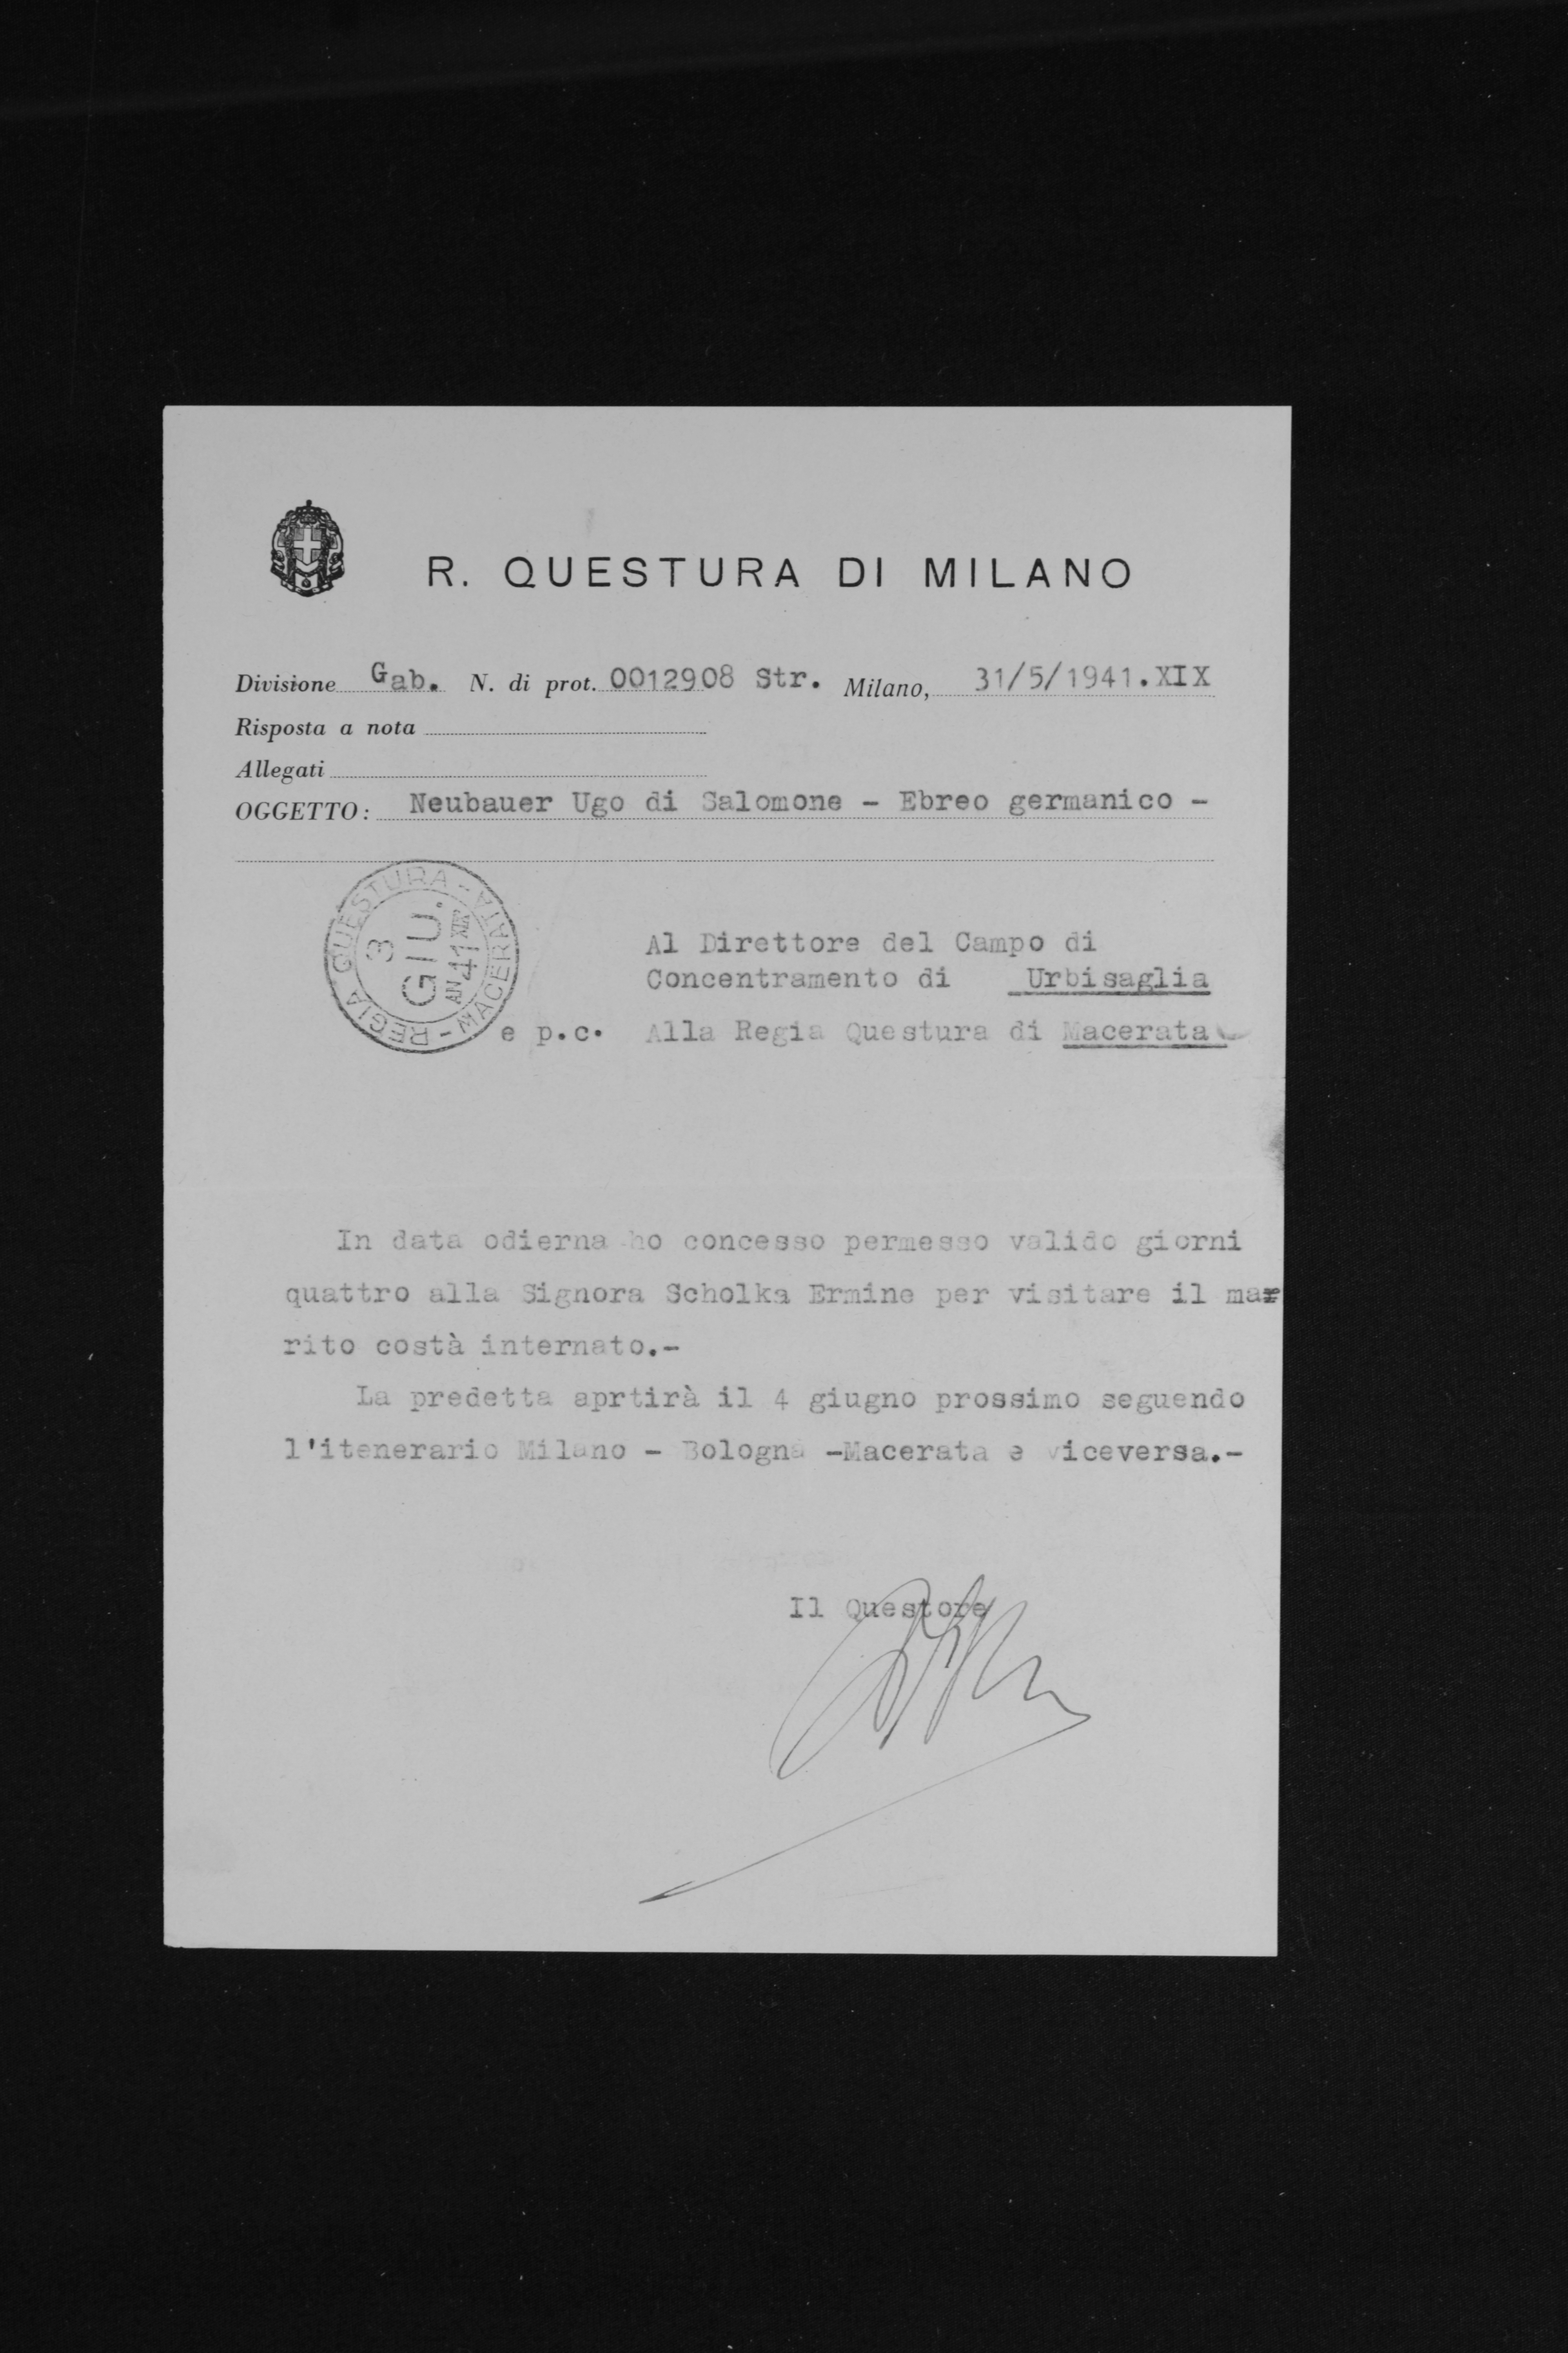
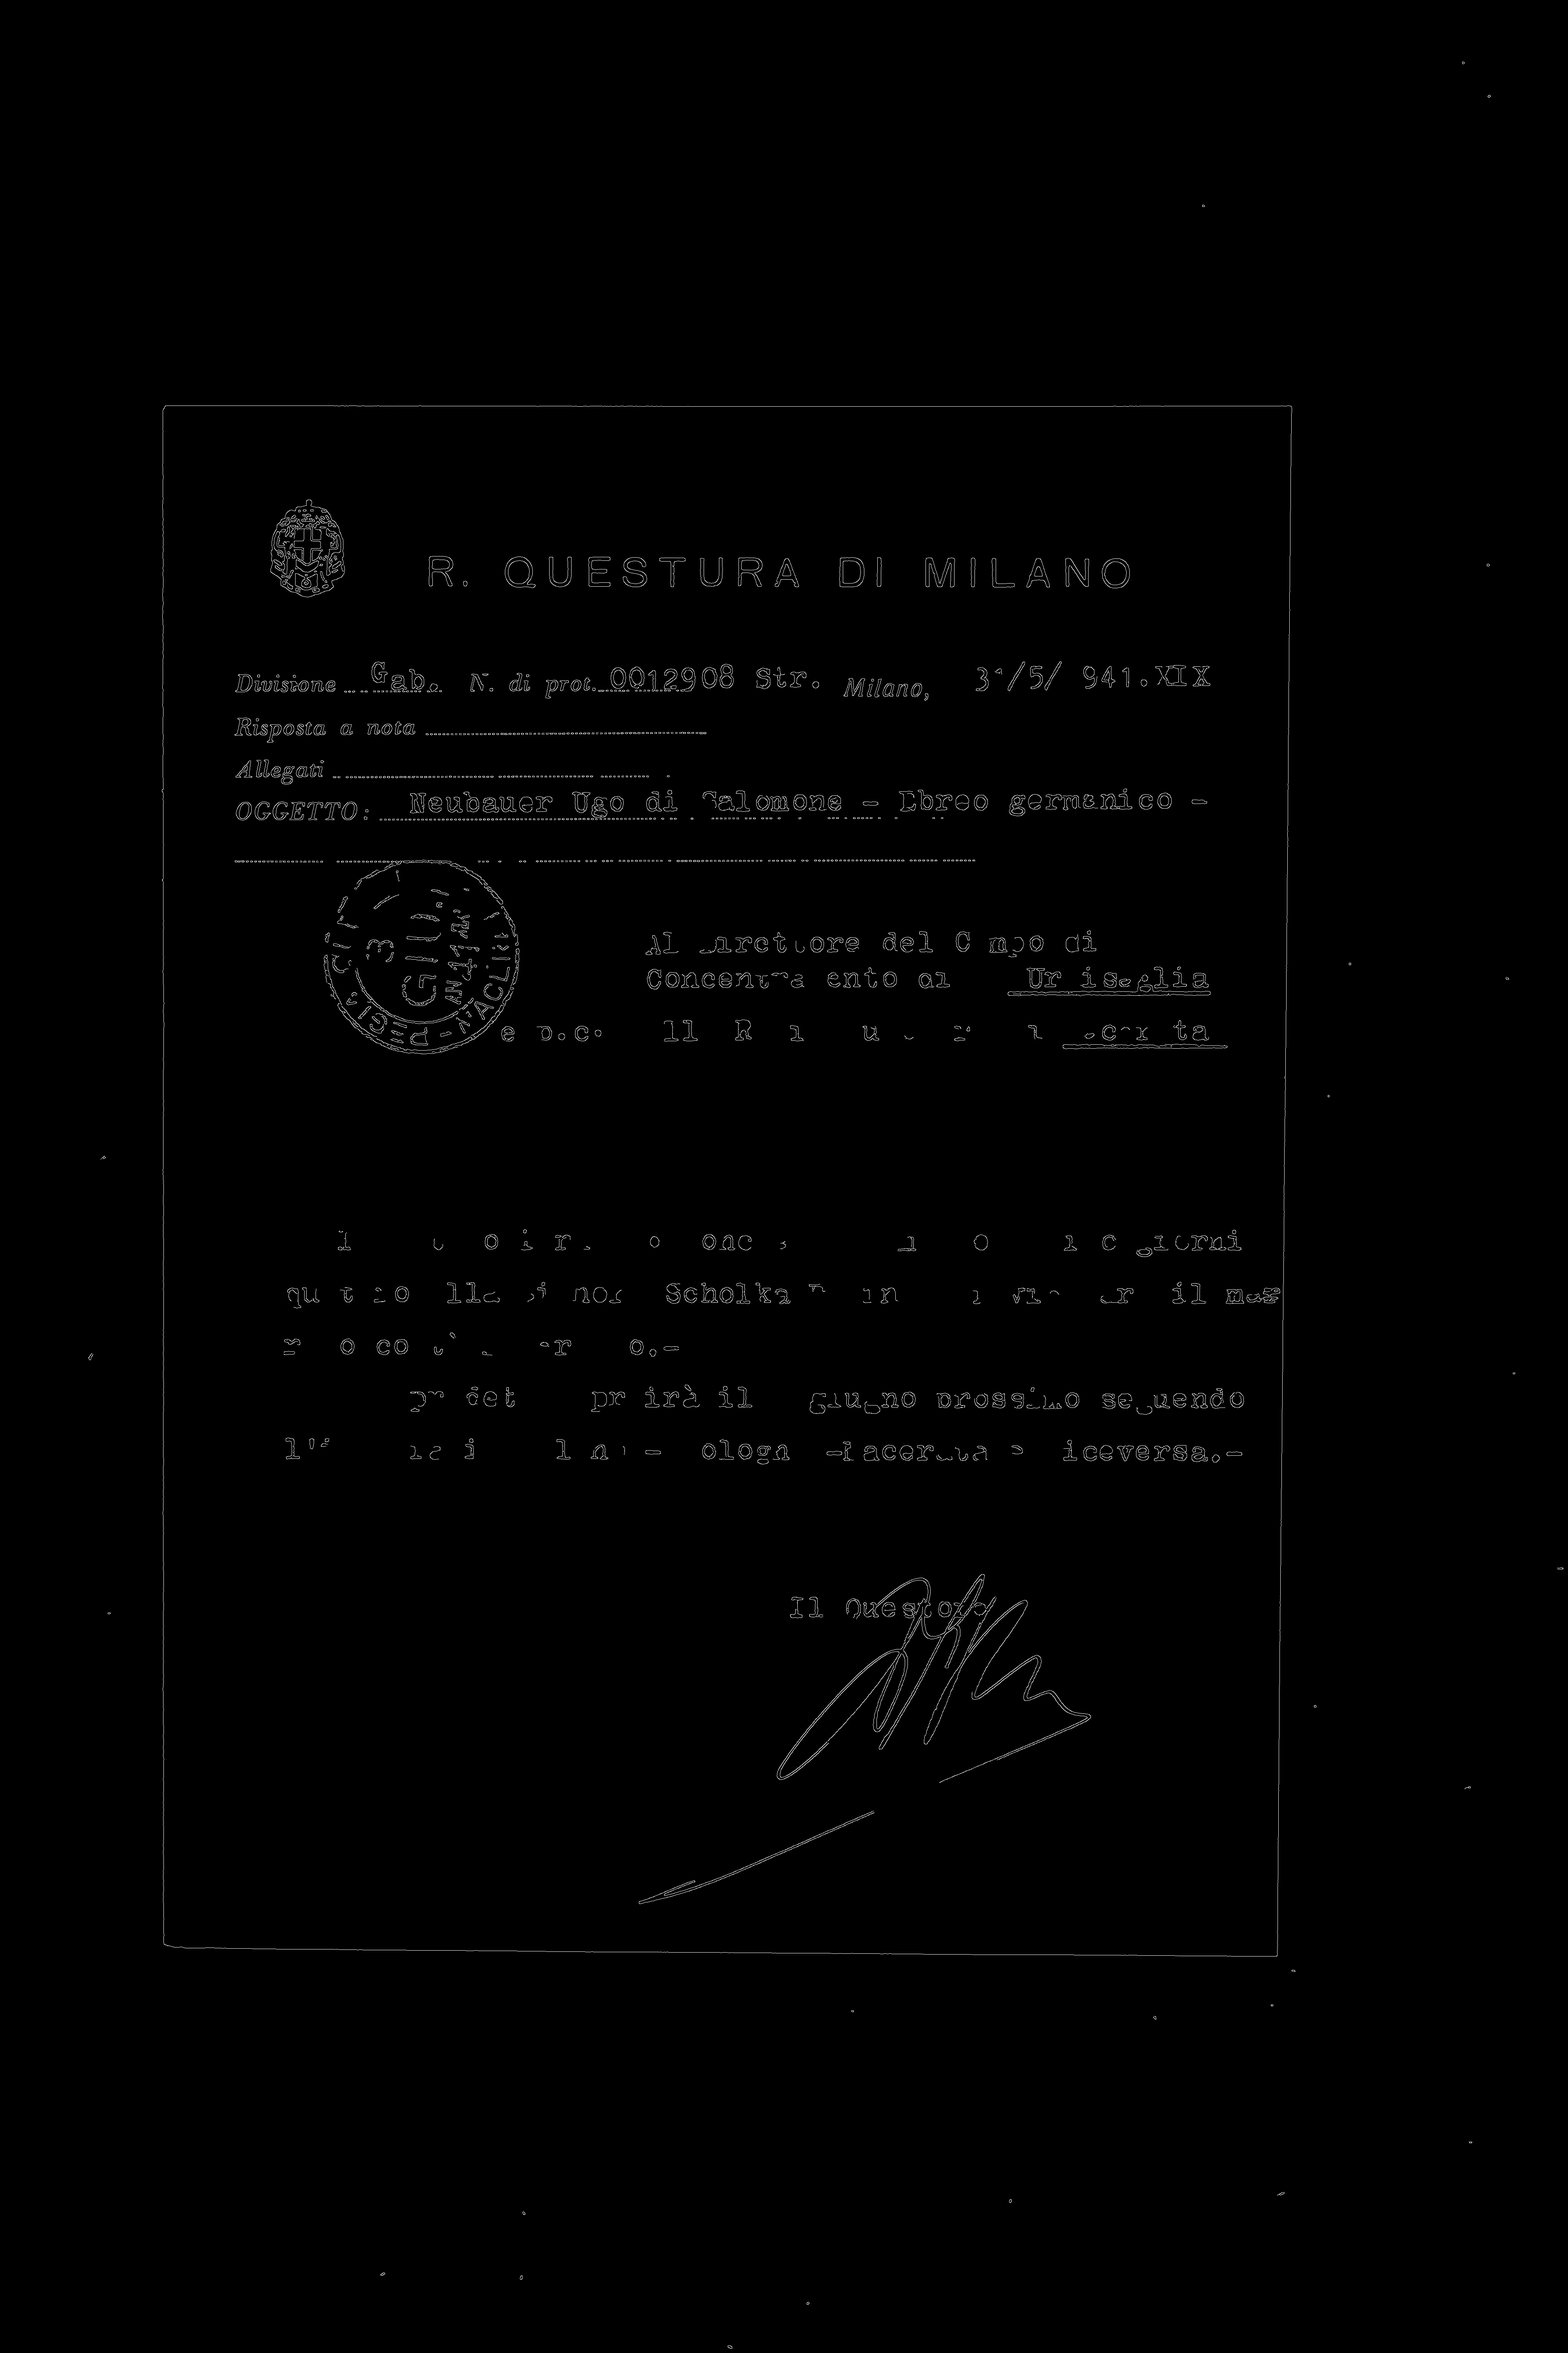
Rimozione bug + Pulizia del codice

diff --git a/project/final-script/main.py b/project/final-script/main.py
@@ -4,9 +4,6 @@ import denoising
 import ocr
 import utils
 
-tresholding = False
-edge_detection = False
-ocr_flag = False
 images = []
 denoised = []
 transcriptions = []
@@ -14,24 +11,21 @@ transcriptions = []
 args = parser.get_args()
 input_dir = args.input_dir
 output_dir = args.output_dir
-tresholding = args.tresholding
-edge_detection = args.edgedetection
-ocr_flag = args.ocr
-denoising_technique = ""
-ocr_technique = ""
+denoising_technique = "none"
+ocr_technique = "none"
 
 
 if __name__ == '__main__':
     images = utils.load_images(input_dir)
-    if(tresholding):
+    if args.tresholding:
         denoising_technique = "adaptive tresholding"
         denoised = denoising.adaptive_treshold(images)
         utils.save_images(denoised, output_dir+"/denoised/adaptive_treshold")
-    if(edge_detection):
+    if args.edgedetection:
         denoising_technique = "edge detection"
         denoised = denoising.edge_detection(images)
         utils.save_images(denoised, output_dir + "/denoised/edge_detection")
-    if(ocr_flag):
+    if args.ocr:
         ocr_technique = "easy-ocr whit retrained model"
         for img in images:
             transcriptions.append(ocr.img_to_text(img))
@@ -39,9 +33,5 @@ if __name__ == '__main__':
     print("Input dir: " + input_dir)
     print("Output dir: " + output_dir)
     print("Denoising: " + denoising_technique, ",", "Ocr: " + ocr_technique)
-    if ocr_flag:
+    if args.ocr:
         print("Transcription numbers: " + str(len(transcriptions)))
-
-
-
-

diff --git a/project/final-script/denoising.py b/project/final-script/denoising.py
@@ -1,7 +1,5 @@
 """This module uses the Adaptive-Threshold method for noise removal from images"""
 import cv2
-from skimage.metrics import mean_squared_error,peak_signal_noise_ratio,structural_similarity
-import matplotlib.pyplot as plt
 
 matrix_size = 601
 threshold = 50
@@ -11,7 +9,7 @@ def adaptive_treshold(images):
     den = []
     for img in images:
         temp = cv2.adaptiveThreshold(img, 255, cv2.ADAPTIVE_THRESH_GAUSSIAN_C, cv2.THRESH_BINARY, matrix_size,
-                                   threshold)
+                                     threshold)
         den.append(temp)
     return den
 
@@ -19,9 +17,7 @@ def adaptive_treshold(images):
 def edge_detection(images):
     den = []
     for img in images:
-        (H, W) = img.shape[:2]
         blurred = cv2.GaussianBlur(img, (5, 5), 0)
         canny = cv2.Canny(blurred, 30, 150)
-        img = canny
-    return images
-
+        den.append(canny)
+    return den

diff --git a/project/final-script/utils.py b/project/final-script/utils.py
@@ -10,6 +10,7 @@ def load_images(path):
             images.append(img)
     return images
 
+
 def save_images(images, path):
     count = 1
     for img in images:
@@ -17,8 +18,9 @@ def save_images(images, path):
         count += 1
         cv2.imwrite(new_path, img)
 
+
 def save_ocr_result(results, path, unified):
-    if(unified):
+    if unified:
         unified_path = path + "/unified.txt"
         unified_file = open(unified_path, "w")
     counter = 1
@@ -28,10 +30,10 @@ def save_ocr_result(results, path, unified):
         for s in result:
             file.write(s)
             file.write(" ")
-            if(unified):
+            if unified:
                 unified_file.write(s)
                 unified_file.write(" ")
         file.close()
-        if(unified):
+        if unified:
             unified_file.write("\n------------------------------------\n")
         counter += 1

diff --git a/project/final-script/ocr.py b/project/final-script/ocr.py
@@ -14,6 +14,7 @@ shutil.copy('models/modello_macchina.yaml', user_network_dir)
 
 reader = easyocr.Reader(['en'], recog_network='modello_macchina', cudnn_benchmark=True, gpu=True)
 
+
 def img_to_text(image):
     text = []
     cords = []
@@ -22,6 +23,3 @@ def img_to_text(image):
         text.append(bound[1])
         cords.append(bound[2])
     return text
-
-
-
